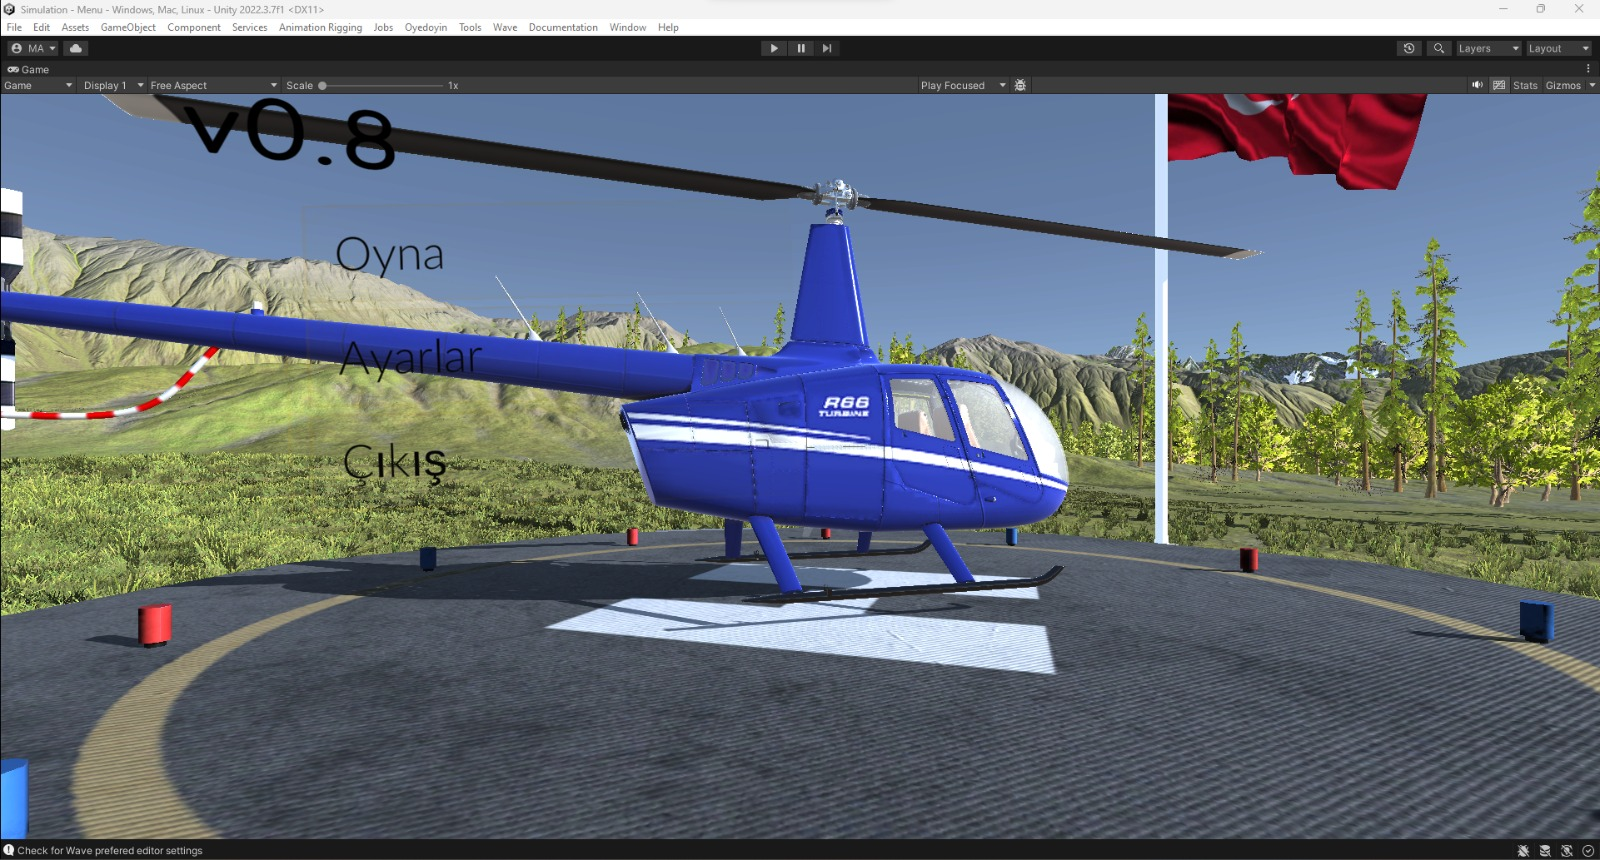
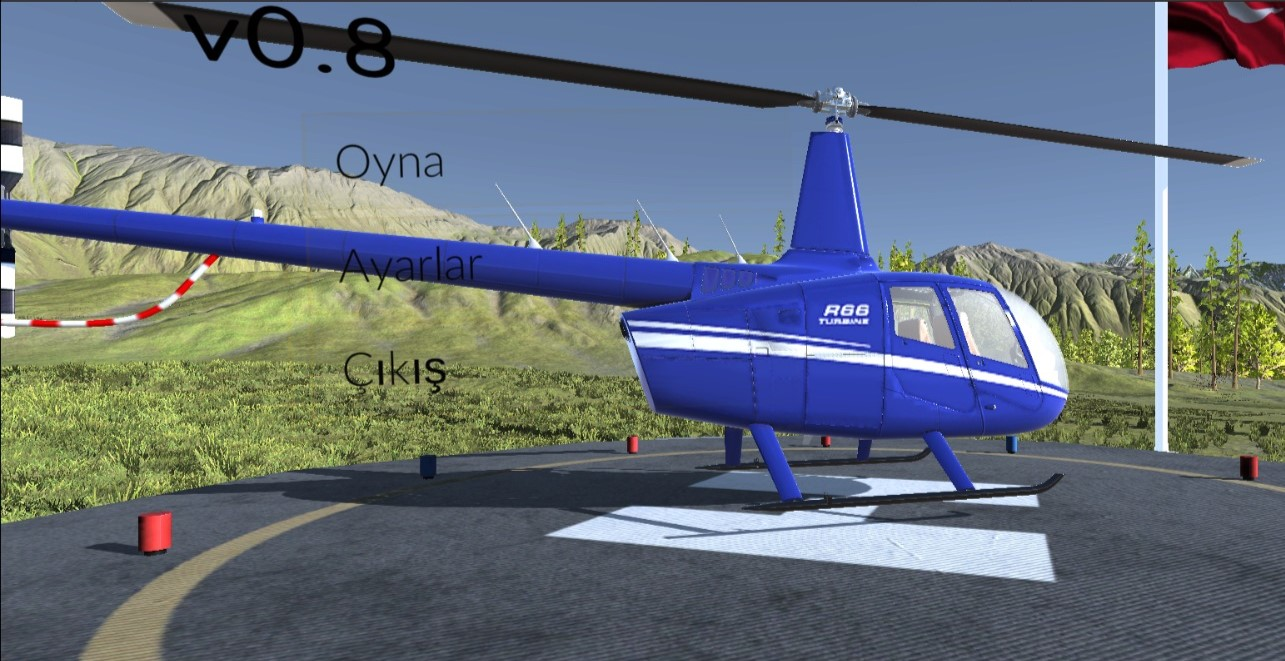
sn hali

diff --git a/bizpro1-master/bizpro1-master/index.html b/bizpro1-master/bizpro1-master/index.html
@@ -500,39 +500,24 @@
 					<div class="project-gallery clear-fix">
 						<div class="mix grid-item photo om dmedia">
 							<div class="single-img">
-								<img src="images/project/helikopter.jpg" style="height: 260px; width: 350px;" alt="Image">
+								<img src="images/project/helikopter2.jpg"  alt="Image">
 								<div class="opacity">
 									<div class="border-shape"><div><div>
 										<h6><a href="#">Yangın Söndürme Simülasyon Projesi</a></h6>
 										<ul>
-											<li>"Bu projede 5. Ana Bakım Fabrika Müdürlüğü ile yürüttüğümüz anlaşma kapsamında, bir yangın söndürme helikopterinin kullanımını ve yangın söndürme olayını başarıyla simüle ettik." /</li>
-											
+											<li>"Bu projede 5. Ana Bakım Fabrika Müdürlüğü ile yürüttüğümüz anlaşma kapsamında, bir yangın söndürme helikopterinin kullanımını ve yangın söndürme olayını başarıyla simüle ettik." </li>
+											<li><a href="https://youtu.be/UKrSACai3-E?si=xUTOZeuvwtT2-C2j" class="tran3s round-border"><i class="fa fa-youtube" aria-hidden="true"></i></a></li>
 										</ul></div></div>
 									</div> <!-- /.border-shape -->
 								</div> <!-- /.opacity -->
 							</div> <!-- /.single-img -->
 						</div> <!-- /.grid-item -->
 
-						<div class="mix grid-item web webd dmedia support">
-							<div class="single-img">
-								<img src="images/project/2.jpg" alt="Image">
-								<div class="opacity">
-									<div class="border-shape"><div><div>
-										<h6><a href="#">Sivas Üniversitesi</a></h6>
-										<ul>
-											<li>"Sivas Üniversitesi rektörlüğü ile yaptığımız bu projede Üniversiteye ve öğrencilerine VR teknolojilerinin kullanımlarını gösterebilmek adına oyun projesi gerçekleştirdik."</li>
-											<!--<li>Service /</li>
-											<li>Product /</li>
-											<li>Template</li>-->
-										</ul></div></div>
-									</div> <!-- /.border-shape -->
-								</div> <!-- /.opacity -->
-							</div> <!-- /.single-img -->
-						</div> <!-- /.grid-item -->
+						
 
 						<div class="mix grid-item photo webd support">
 							<div class="single-img">
-								<img src="images/project/3.jpg" alt="Image">
+								<img src="images/project/diş.jpg" alt="Image">
 								<div class="opacity">
 									<div class="border-shape"><div><div>
 										<h6><a href="#">Diş Hekimliği </a></h6>
@@ -547,7 +532,7 @@
 
 						<div class="mix grid-item web om">
 							<div class="single-img">
-								<img src="images/project/4.jpg" alt="Image">
+								<img src="images/project/onerh.png" alt="Image">
 								<div class="opacity">
 									<div class="border-shape"><div><div>
 										<h6><a href="#">Detaylı Patlatılmış Model Görünüm Projesi</a></h6>
@@ -560,35 +545,67 @@
 							</div> <!-- /.single-img -->
 						</div> <!-- /.grid-item -->
 				
-					<!--
-						<div class="mix grid-item photo webd dmedia om">
+						<div class="mix grid-item web webd dmedia support">
 							<div class="single-img">
-								<img src="images/project/5.jpg" alt="Image">
+								<img src="images/project/basket.jpg" alt="Image" style=" margin: auto;">
 								<div class="opacity">
 									<div class="border-shape"><div><div>
-										<h6><a href="#">Sweet Photo</a></h6>
+										<h6><a href="#">Basketball Oyunu</a></h6>
 										<ul>
-											<li>Business /</li>
-											<li>Service /</li>
+											<li>"Sivas Üniversitesi rektörlüğü ile yaptığımız bu projede Üniversiteye ve öğrencilerine VR teknolojilerinin kullanımlarını gösterebilmek adına mini bir Basketball oyun projesi gerçekleştirdik."</li>
+											
+											<!--<li>Service /</li>
 											<li>Product /</li>
-											<li>Template</li>
+											<li>Template</li>-->
 										</ul></div></div>
 									</div> <!-- /.border-shape -->
 								</div> <!-- /.opacity -->
 							</div> <!-- /.single-img -->
 						</div> <!-- /.grid-item -->
-					<!--
-						<div class="mix grid-item web webd dmedia om">
+
+						<div class="mix grid-item web webd dmedia support">
 							<div class="single-img">
-								<img src="images/project/6.jpg" alt="Image">
+								<img src="images/project/golf.jpg" alt="Image" style=" margin: auto;">
 								<div class="opacity">
 									<div class="border-shape"><div><div>
-										<h6><a href="#">Sweet Photo</a></h6>
+										<h6><a href="#">Golf Oyunu</a></h6>
 										<ul>
-											<li>Business /</li>
-											<li>Service /</li>
+											<li>"Sivas Üniversitesi rektörlüğü ile yaptığımız bu projede Üniversiteye ve öğrencilerine VR teknolojilerinin kullanımlarını gösterebilmek adına mini bir Golf oyun projesi gerçekleştirdik."</li>
+											
+											<!--<li>Service /</li>
 											<li>Product /</li>
-											<li>Template</li>
+											<li>Template</li>-->
+										</ul></div></div>
+									</div> <!-- /.border-shape -->
+								</div> <!-- /.opacity -->
+							</div> <!-- /.single-img -->
+						</div> <!-- /.grid-item -->
+
+						
+					
+						<div class="mix grid-item photo webd dmedia om">
+							<div class="single-img">
+								<img src="images/project/bowling.jpg" alt="Image">
+								<div class="opacity">
+									<div class="border-shape"><div><div>
+										<h6><a href="#">Bowling oyunu</a></h6>
+										<ul>
+											<li>"Sivas Üniversitesi rektörlüğü ile yaptığımız bu projede Üniversiteye ve öğrencilerine VR teknolojilerinin kullanımlarını gösterebilmek adına mini bir Bowling oyun projesi gerçekleştirdik."</li>
+											
+										</ul></div></div>
+									</div> <!-- /.border-shape -->
+								</div> <!-- /.opacity -->
+							</div> <!-- /.single-img -->
+						</div> <!-- /.grid-item -->
+					
+						<div class="mix grid-item web webd dmedia om">
+							<div class="single-img">
+								<img src="images/project/fruit ninja.jpg" alt="Image">
+								<div class="opacity">
+									<div class="border-shape"><div><div>
+										<h6><a href="#">Meyve parçalama</a></h6>
+										<ul>
+											<li>"Sivas Üniversitesi rektörlüğü ile yaptığımız bu projede Üniversiteye ve öğrencilerine VR teknolojilerinin kullanımlarını gösterebilmek adına mini bir meyve kesme oyun projesi gerçekleştirdik."</li>
 										</ul></div></div>
 									</div> <!-- /.border-shape -->
 								</div> <!-- /.opacity -->
@@ -695,7 +712,7 @@
 									<ul>
 										<!--<li><a href="#" class="tran3s round-border"><i class="fa fa-facebook" aria-hidden="true"></i></a></li>
 										<li><a href="#" class="tran3s round-border"><i class="fa fa-twitter" aria-hidden="true"></i></a></li>-->
-									<!--	<li><a href="https://avesis.gazi.edu.tr/my" class="tran3s round-border" ><i class="fa fa-avesis" aria-hidden="true" ></i></a></li>-->
+										<li><a href="https://avesis.gazi.edu.tr/my" ><i src="images/logo/logo.png" alt="Image" style=" margin: auto;" width="10px" height="10px" ></i></a></li>
 										<li><a href="https://www.linkedin.com/in/muraty/" class="tran3s round-border"><i class="fa fa-linkedin" aria-hidden="true"></i></a></li>
 									</ul>
 								</div> <!-- /.member-name -->
@@ -705,7 +722,7 @@
 						<div class="float-left">
 							<div class="single-team-member">
 								<div class="img">
-									<img src="images/team/melih5.jpg" style="height: 400px; width: 370px;"alt="Image">
+									<img src="images/team/melih0.jpg" style="height: 400px; width: 370px;"alt="Image">
 									<div class="opacity tran4s">
 										<h4>Melih Açıl</h4>
 										<span>Game Developer</span>
@@ -726,7 +743,7 @@
 						<div class="float-left">
 							<div class="single-team-member">
 								<div class="img">
-									<img src="images/team/mete2.jpg" style="height: 400px; width: 370px;" alt="Image">
+									<img src="images/team/mete0.jpg" style="height: 400px; width: 370px;" alt="Image">
 									<div class="opacity tran4s">
 										<h4>Mete Baykal</h4>
 										<span>Game Developer</span>
@@ -747,7 +764,7 @@
 						<div class="float-left">
 							<div class="single-team-member">
 								<div class="img">
-									<img src="images/team/yigit1.jpg" style="height: 400px; width: 370px;"alt="Image">
+									<img src="images/team/yigit0.jpg" style="height: 400px; width: 370px;"alt="Image">
 									<div class="opacity tran4s">
 										<h4>Yiğit Birkan Furkan</h4>
 										<span>Game Developer</span>
@@ -767,7 +784,7 @@
 						<div class="float-left">
 							<div class="single-team-member">
 								<div class="img">
-									<img src="images/team/aysegul3.jpg" style="height: 400px; width: 370px;" alt="Image">
+									<img src="images/team/aysegul0.jpg" style="height: 400px; width: 370px;" alt="Image">
 									<div class="opacity tran4s">
 										<h4>Ayşegül Altun</h4>
 										<span>Game Developer</span>
@@ -787,11 +804,11 @@
 						<div class="float-left">
 							<div class="single-team-member">
 								<div class="img">
-									<img src="images/team/zeynep.jpg" style="height: 400px; width: 370px;" alt="Image">
+									<img src="images/team/zeynep_.jpg" style="height: 400px; width: 370px;" alt="Image">
 									<div class="opacity tran4s">
 										<h4>Zeynep Saliha Sertçelik</h4>
 										<span>Game Developer</span>
-										<p>21 yaşındayım, Gazi üniversitesi bilgisayar mühendisliği 3. sınıf öğrencisiyim. Şu an okuluma bağlı bilişim enstitüsünde oyun ve simülasyon üzerine takım çalışması yürütmekteyim.</p>
+										<p> Gazi üniversitesi bilgisayar mühendisliği 3. sınıf öğrencisiyim. Şu an okuluma bağlı bilişim enstitüsünde oyun ve simülasyon üzerine takım çalışması yürütmekteyim.</p>
 									</div>
 								</div> <!-- /.img -->
 								<div class="member-name">
@@ -812,7 +829,7 @@
 						<div class="float-left">
 							<div class="single-team-member">
 								<div class="img">
-									<img src="images/team/semih.jpg" style="height: 400px; width: 370px;" alt="Image">
+									<img src="images/team/semih0.jpg" style="height: 400px; width: 370px;" alt="Image">
 									<div class="opacity tran4s">
 										<h4>Mehmet Semih Aslan</h4>
 										<span>Designer</span>
@@ -832,7 +849,7 @@
 						<div class="float-left">
 							<div class="single-team-member">
 								<div class="img">
-									<img src="images/team/ozgur.jpg" style="height: 400px; width: 370px;" alt="Image">
+									<img src="images/team/ozgur0.jpg" style="height: 400px; width: 370px;" alt="Image">
 									<div class="opacity tran4s">
 										<h4>Özgür Ertekin</h4>
 										<span>Game Developer</span>
